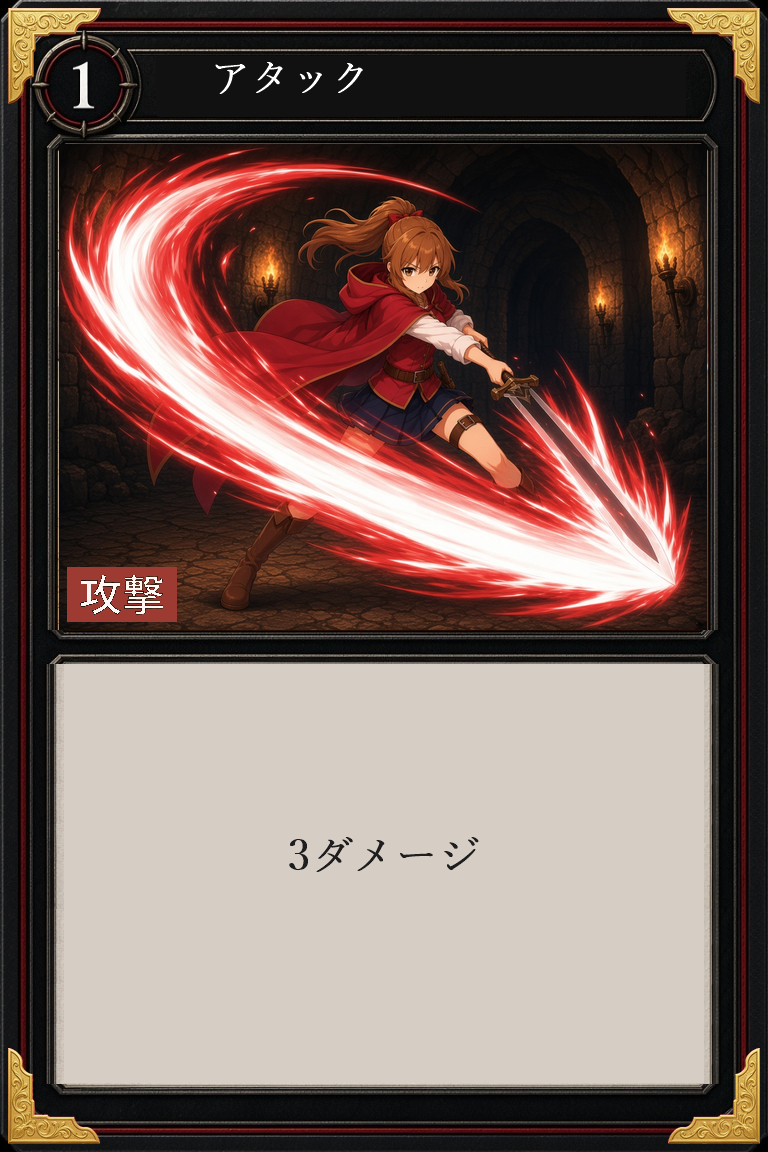
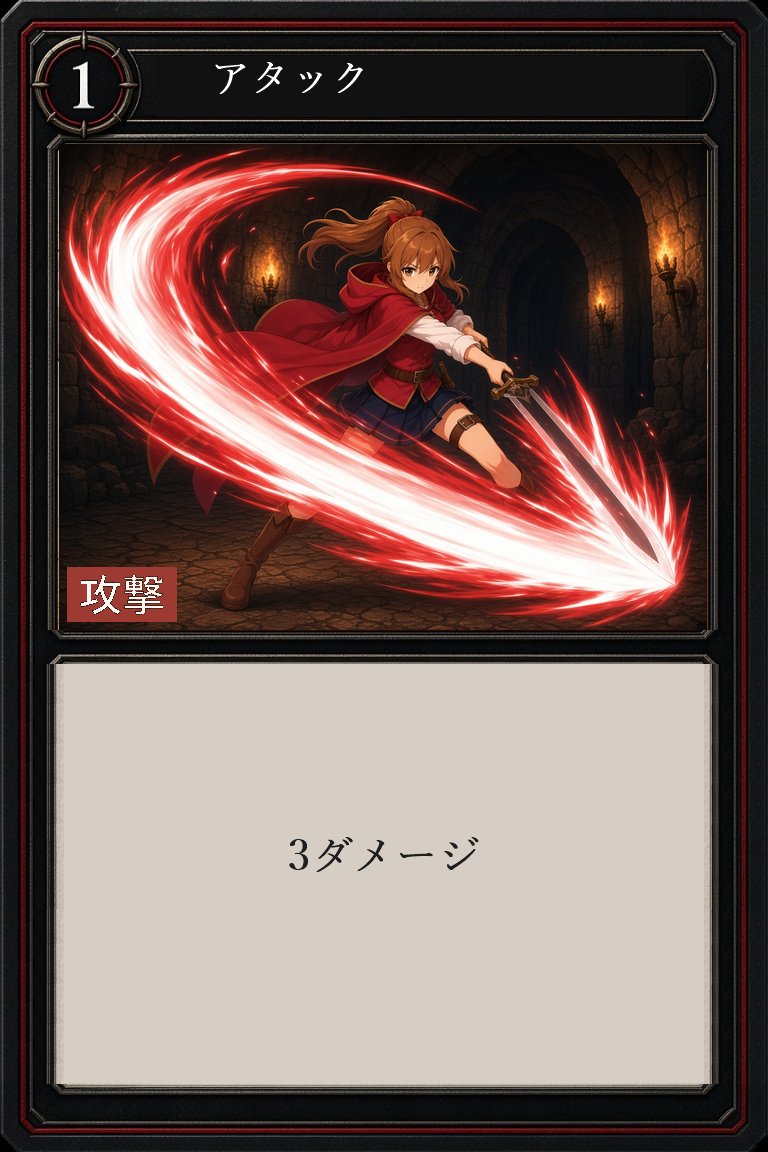
カードスタイルは装飾なしに戻し、四隅は銀★★・金★★★・赤ボスにする。

diff --git a/index.html b/index.html
@@ -1338,7 +1338,7 @@
     .ref-grid img.land-ref { aspect-ratio: 16 / 9; object-fit: cover; }
     .ref-grid figure.span-2 { grid-column: span 2; max-width: 320px; }
     .ref-grid figure.wide-land { grid-column: 1 / -1; max-width: 720px; }
-    /* カードスタイル＝元の色枠の上に金の四隅。名札・効果は薄く、絵柄の場所に点線 */
+    /* カードスタイル＝装飾なし。名札・効果は薄く、絵柄の場所に点線 */
     .blank-grid { grid-template-columns: repeat(auto-fill, minmax(170px, 1fr)); }
     .blank-grid .card.preview { width: 100%; height: auto; cursor: default; }
     .blank-grid img.style-master { width: 100%; height: auto; aspect-ratio: auto; object-fit: contain; }
@@ -8721,7 +8721,7 @@
 
     const MADE_CARD_ARTS = [
       ["made-attack-m", "アタック（男）", "card-attack-m.jpg?v=2"],
-      ["made-attack-f", "アタック（女）", "card-attack-f-card.png?v=1"],
+      ["made-attack-f", "アタック（女）", "card-attack-f-card.png?v=2"],
       ["made-charge-m", "チャージアタック（男）", "card-charge-m.jpg?v=1"],
       ["made-charge-f", "チャージアタック（女）", "card-charge-f.jpg?v=1"],
       ["made-big-attack-m", "ビッグアタック（男）", "card-big-attack-m.jpg?v=1"],
@@ -8743,11 +8743,14 @@
         return zoomSidePanel(made[1], `<img class="art-zoom-img" src="${made[2]}" alt="${esc(made[1])}">`);
       }
       const masterZoom = {
-        "card-style-master": { label: "攻撃（赤）", src: "card-style-gold-attack.png?v=1", alt: "攻撃（赤）。元の枠の上に金の四隅" },
-        "card-style-master-block": { label: "防御（青）", src: "card-style-gold-block.png?v=1", alt: "防御（青）。元の枠の上に金の四隅" },
-        "card-style-master-skill": { label: "スキル（黄）", src: "card-style-gold-skill.png?v=1", alt: "スキル（黄）。元の枠の上に金の四隅" },
-        "card-style-master-power": { label: "パワー（緑）", src: "card-style-gold-power.png?v=1", alt: "パワー（緑）。元の枠の上に金の四隅" },
-        "card-style-master-foe": { label: "敵のカード（紫）", src: "card-style-gold-foe.png?v=1", alt: "敵のカード（紫）。元の枠の上に金の四隅" },
+        "card-style-master": { label: "攻撃（赤）", src: "card-style-master.png?v=7", alt: "攻撃（赤）。装飾なし。★" },
+        "card-style-master-block": { label: "防御（青）", src: "card-style-master-block.png?v=7", alt: "防御（青）。装飾なし。★" },
+        "card-style-master-skill": { label: "スキル（黄）", src: "card-style-master-skill.png?v=7", alt: "スキル（黄）。装飾なし。★" },
+        "card-style-master-power": { label: "パワー（緑）", src: "card-style-master-power.png?v=7", alt: "パワー（緑）。装飾なし。★" },
+        "card-style-master-foe": { label: "敵のカード（紫）", src: "card-style-master-foe.png?v=7", alt: "敵のカード（紫）。装飾なし。★" },
+        "rarity-silver": { label: "★★ 銀", src: "card-style-silver-attack.png?v=1", alt: "同じ四隅を銀にした。★★" },
+        "rarity-gold": { label: "★★★ 金", src: "card-style-gold-attack.png?v=1", alt: "金の四隅。★★★" },
+        "rarity-boss": { label: "ボス 赤", src: "card-style-boss-attack.png?v=1", alt: "同じ四隅を赤にした。ボス" },
       }[name];
       if (masterZoom) {
         return zoomSidePanel(masterZoom.label, `<img class="art-zoom-img" src="${masterZoom.src}" alt="${esc(masterZoom.alt)}">`);
@@ -8944,6 +8947,8 @@
             </div>
             <h4>カードスタイル</h4>
             <div class="ref-grid blank-grid">${blankCardSheet()}</div>
+            <h4>レアリティ</h4>
+            <div class="ref-grid blank-grid">${rarityStyleSheet()}</div>
             <h4>できたカード絵</h4>
             <div class="ref-grid blank-grid">${madeCardSheet()}</div>
             <div class="album-tabs" role="tablist">${tabs}</div>
@@ -9228,14 +9233,25 @@
       })[kind] || "スキル";
     }
 
-    // カードスタイル＝元の色枠の上に金の四隅。枠自体は変えない。
+    // カードスタイル＝装飾なし（★）。金の四隅は★★★。同じ形の銀が★★、赤がボス。
     const BLANK_FRAMES = [
-      { kind: "attack", label: "攻撃（赤）", zoom: "card-style-master", src: "card-style-gold-attack.png?v=1", alt: "攻撃（赤）。元の枠の上に金の四隅" },
-      { kind: "block", label: "防御（青）", zoom: "card-style-master-block", src: "card-style-gold-block.png?v=1", alt: "防御（青）。元の枠の上に金の四隅" },
-      { kind: "skill", label: "スキル（黄）", zoom: "card-style-master-skill", src: "card-style-gold-skill.png?v=1", alt: "スキル（黄）。元の枠の上に金の四隅" },
-      { kind: "power", label: "パワー（緑）", zoom: "card-style-master-power", src: "card-style-gold-power.png?v=1", alt: "パワー（緑）。元の枠の上に金の四隅" },
-      { kind: "foe", label: "敵のカード（紫）", zoom: "card-style-master-foe", src: "card-style-gold-foe.png?v=1", alt: "敵のカード（紫）。元の枠の上に金の四隅" },
+      { kind: "attack", label: "攻撃（赤）", zoom: "card-style-master", src: "card-style-master.png?v=7", alt: "攻撃（赤）。装飾なし。★" },
+      { kind: "block", label: "防御（青）", zoom: "card-style-master-block", src: "card-style-master-block.png?v=7", alt: "防御（青）。装飾なし。★" },
+      { kind: "skill", label: "スキル（黄）", zoom: "card-style-master-skill", src: "card-style-master-skill.png?v=7", alt: "スキル（黄）。装飾なし。★" },
+      { kind: "power", label: "パワー（緑）", zoom: "card-style-master-power", src: "card-style-master-power.png?v=7", alt: "パワー（緑）。装飾なし。★" },
+      { kind: "foe", label: "敵のカード（紫）", zoom: "card-style-master-foe", src: "card-style-master-foe.png?v=7", alt: "敵のカード（紫）。装飾なし。★" },
     ];
+    const RARITY_STYLES = [
+      ["rarity-silver", "★★ 銀", "card-style-silver-attack.png?v=1"],
+      ["rarity-gold", "★★★ 金", "card-style-gold-attack.png?v=1"],
+      ["rarity-boss", "ボス 赤", "card-style-boss-attack.png?v=1"],
+    ];
+    function rarityStyleSheet() {
+      return RARITY_STYLES.map((item) => {
+        const on = albumZoom === item[0];
+        return `<figure class="${on ? "on" : ""}"><button type="button" class="sheet-zoom-btn" data-art-zoom="${item[0]}" aria-label="${esc(item[1])}を拡大" aria-pressed="${on ? "true" : "false"}"><img class="style-master" src="${item[2]}" alt="${esc(item[1])}"></button><figcaption>${esc(item[1])}</figcaption></figure>`;
+      }).join("");
+    }
     function madeCardSheet() {
       return MADE_CARD_ARTS.map((item) => {
         const on = albumZoom === item[0];
